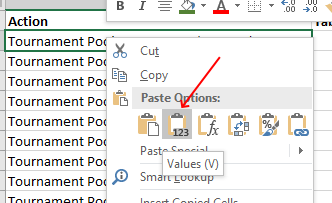
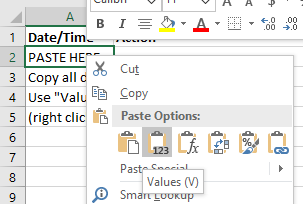
Update README.md

diff --git a/Stats/README.md b/Stats/README.md
@@ -42,35 +42,13 @@ Select everything that's been filtered, not including the headers (should be fro
 
 ## Replacing data with your own
 
-Go to the `GT.xlsx` spreadsheet now. It already has some sample data. Clear it to make way for the new one.
-
-Select all of the similar looking block (as per the headers in the raw audit) - up to *"Cummulative"*. After all is selected, press **Delete**.
-
-![Clearing old rows](img/delete.PNG)
-
-Select the (now empty) cell just below *"Action"* in our sheet. Now right click and **Paste**, but use only *"Values"*:
+Select the A2 cell with the placeholder text in our sheet. Now right click and **Paste**, but use only *"Values"*:
 
 ![Pasting](img/paste.png)
 
-## Applying formulas
+The stats + graphs should update automatically.
 
-The last step is to apply the existing formulas to the new data.
-
-Go to the *"Cummulative"* row. Delete everything but the first row. Select the first row.
-
-To apply the formula to the entire block, note the green square in the lower-right corner of the selection. Double click it:
-
-![Applying formulas](img/apply.png)
-
-The $ graph should now be updated.
-
-To do the same for the win rate and bounties / game graphs, look for the formulas in the next four columns. They're a bit below, since they have to start at the first 200 slice.
-
-Once located, do the same as for the *"Cummulative"* column: delete everything below the first row, select the row, and apply it to the block with the lower-right square:
-
-![Applying for the slices formulas](img/slices.PNG)
-
-You should now see the graphs updated accordingly.
+Feel free to tinker with the visualisation - i.e., your data set size might allow for better graphs.
 
 ## Extra Bounties -> chips sheet
 
